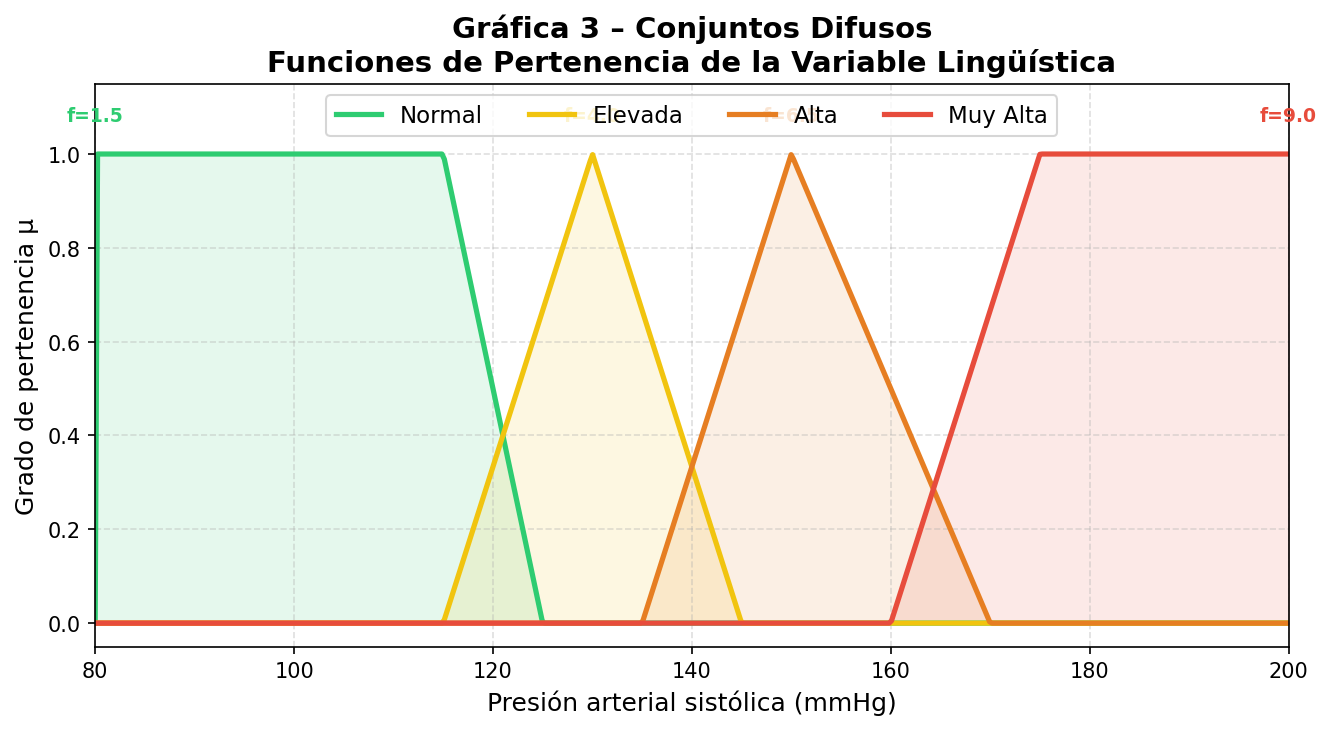
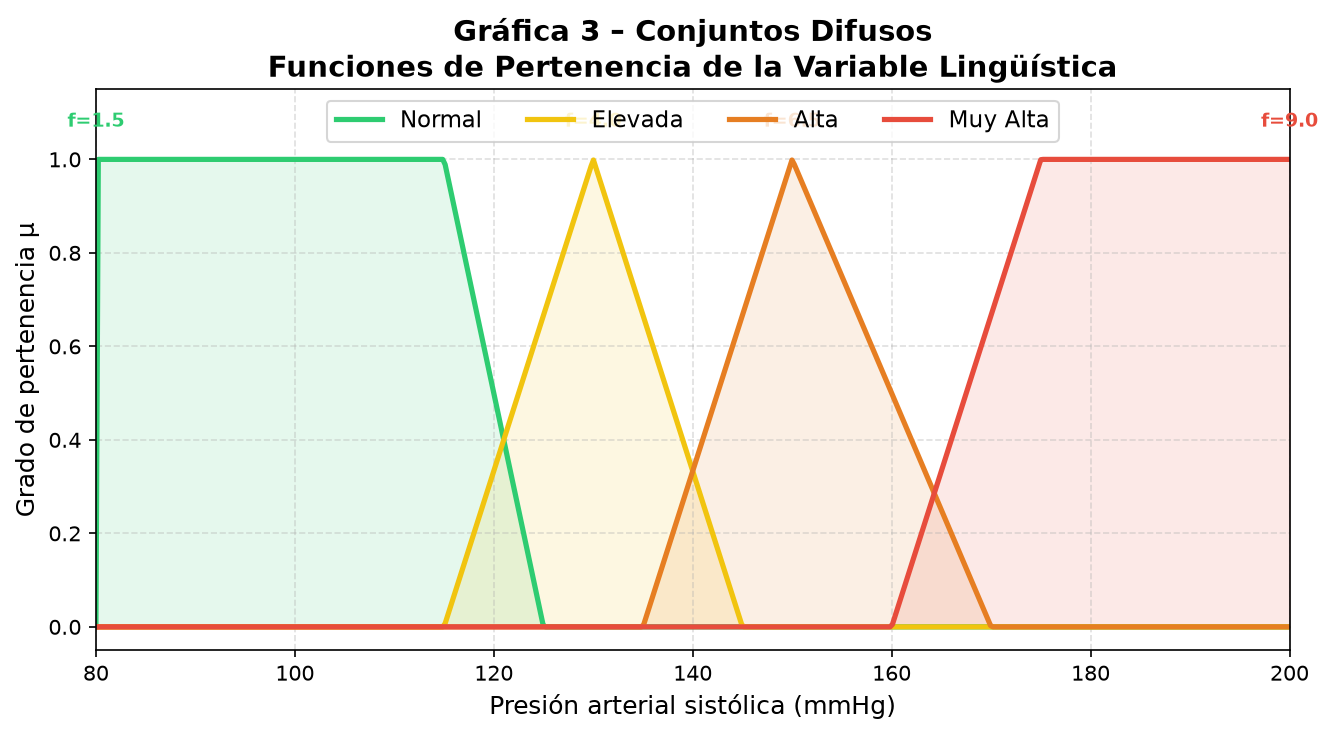
Actualizacion de código para eliminar el uso de `plt.close()` y mostrar las gráficas al final del script. Además, se han eliminado las líneas relacionadas con la configuración de Matplotlib para entornos sin pantalla.

diff --git a/anfis_presion_arterial.py b/anfis_presion_arterial.py
@@ -19,8 +19,6 @@ Reglas Takagi-Sugeno orden 0 (salida constante):
 """
 
 import numpy as np
-import matplotlib
-matplotlib.use('Agg')
 import matplotlib.pyplot as plt
 
 # ─────────────────────────────────────────────
@@ -108,8 +106,7 @@ ax1.axhspan(180, 200, alpha=0.08, color='red',    label='Crisis (≥180)')
 ax1.legend(fontsize=9, loc='upper left')
 ax1.grid(True, linestyle='--', alpha=0.4)
 fig1.tight_layout()
-fig1.savefig('/sessions/stoic-pensive-bell/mnt/outputs/grafica1_entrada.png', dpi=150, bbox_inches='tight')
-plt.close(fig1)
+fig1.savefig('grafica1_entrada.png', dpi=150, bbox_inches='tight')
 print("Gráfica 1 guardada")
 
 # ─────────────────────────────────────────────
@@ -131,8 +128,7 @@ for yi, label, col in zip([1.5, 4.0, 6.5, 9.0],
 ax2.legend(fontsize=9, loc='upper left')
 ax2.grid(True, linestyle='--', alpha=0.4)
 fig2.tight_layout()
-fig2.savefig('/sessions/stoic-pensive-bell/mnt/outputs/grafica2_salida.png', dpi=150, bbox_inches='tight')
-plt.close(fig2)
+fig2.savefig('grafica2_salida.png', dpi=150, bbox_inches='tight')
 print("Gráfica 2 guardada")
 
 # ─────────────────────────────────────────────
@@ -167,8 +163,7 @@ for p, const, color in zip(picos, constantes, colores):
                  ha='center', fontsize=9, color=color, fontweight='bold')
 
 fig3.tight_layout()
-fig3.savefig('/sessions/stoic-pensive-bell/mnt/outputs/grafica3_conjuntos.png', dpi=150, bbox_inches='tight')
-plt.close(fig3)
+fig3.savefig('grafica3_conjuntos.png', dpi=150, bbox_inches='tight')
 print("Gráfica 3 guardada")
 
 # ─────────────────────────────────────────────
@@ -181,3 +176,8 @@ for p in [100, 128, 150, 185]:
           f"| μ: Normal={w[0,0]:.2f}  Elevada={w[0,1]:.2f}  "
           f"Alta={w[0,2]:.2f}  MuyAlta={w[0,3]:.2f}")
 print("\nScript completo.")
+
+# ─────────────────────────────────────────────
+# 8. MOSTRAR LAS TRES GRÁFICAS EN PANTALLA
+# ─────────────────────────────────────────────
+plt.show()